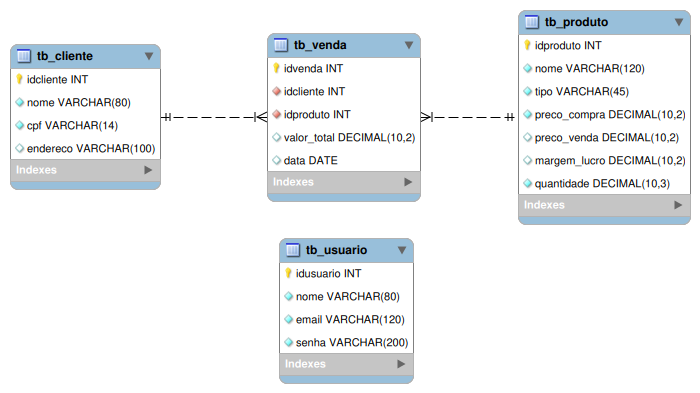
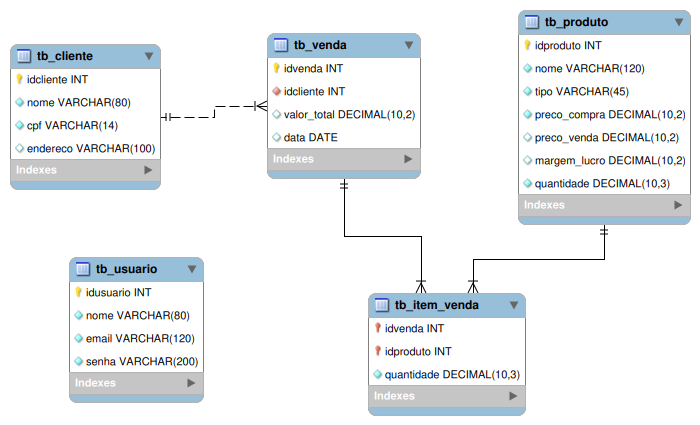
Implementação de N:N
Função que salva venda, item, seus testes e um teste do processo completo.

diff --git a/codigo/funcoes.php b/codigo/funcoes.php
@@ -72,17 +72,34 @@ function editarProduto() {};
 //desafio
 function salvarUsuario() {};
 
-function salvarVenda($conexao, $idcliente, $idproduto, $valor_total, $data) {
-    $sql = "INSERT INTO tb_venda (idcliente, idproduto, valor_total, data) VALUES (?, ?, ?, ?)";
+function salvarVenda($conexao, $idcliente, $valor_total, $data) {
+    $sql = "INSERT INTO tb_venda (idcliente, valor_total, data) VALUES (?, ?, ?)";
     $comando = mysqli_prepare($conexao, $sql);
 
-    mysqli_stmt_bind_param($comando, 'iids', $idcliente, $idproduto, $valor_total, $data);
+    mysqli_stmt_bind_param($comando, 'ids', $idcliente, $valor_total, $data);
+
+    $funcionou = mysqli_stmt_execute($comando);
+
+    // retorna o valor do id que acabou de ser inserido
+    $idvenda = mysqli_stmt_insert_id($comando);
+    
+    mysqli_stmt_close($comando);
+    
+    return $idvenda;
+};
+
+function salvarItemVenda($conexao, $id_venda, $id_produto, $quantidade) {
+    $sql = "INSERT INTO tb_item_venda (idvenda, idproduto, quantidade) VALUES (?, ?, ?)";
+
+    $comando = mysqli_prepare($conexao, $sql);
+
+    mysqli_stmt_bind_param($comando, 'iid', $id_venda, $id_produto, $quantidade);
 
     $funcionou = mysqli_stmt_execute($comando);
     mysqli_stmt_close($comando);
-    
+
     return $funcionou;
-};
+}
 
 // retornar uma variável com todos os dados do cliente
 function pesquisarClienteId($conexao, $idcliente) {

diff --git a/codigo/tests/teste_processoVenda.php b/codigo/tests/teste_processoVenda.php
@@ -1,0 +1,30 @@
+<?php
+require_once "../conexao.php";
+require_once "../funcoes.php";
+
+$id_cliente = 2;
+$valor_total = 30.2;
+$data = "2025-12-30";
+
+// $produtos = [2, 3, 5, 8, 10];
+// $quantide = [3, 5, 1, 9, 20];
+
+// lembrar do carrinho de compras
+$produtos = [
+//  produto, quantidade
+    [1, 3], 
+    [3, 5], 
+    [2, 1],
+];
+
+
+$id_venda = salvarVenda($conexao, $id_cliente, $valor_total, $data);
+
+// for ($i = 0; $i < sizeof($produtos); $i++) {
+//     salvarItemVenda($conexao, $id_venda, $produto[$i], $quantide[$i]);
+// }
+
+// quebra a variável $produto em $p (cada uma das 3 partes)
+foreach ($produtos as $p) {
+    salvarItemVenda($conexao, $id_venda, $p[0], $p[1]);
+}

diff --git a/codigo/tests/teste_salvarVenda.php b/codigo/tests/teste_salvarVenda.php
@@ -2,10 +2,11 @@
 require_once "../conexao.php";
 require_once "../funcoes.php";
 
-$idcliente = 3;
-$idproduto = 1;
+$idcliente = 1;
 $valor_total = 25.50;
 $data = "2025-03-27";
 
-salvarVenda($conexao, $idcliente, $idproduto, $valor_total, $data);
+$idvenda = salvarVenda($conexao, $idcliente, $valor_total, $data);
+
+echo $idvenda;
 ?>

diff --git a/codigo/tests/teste_salvarItemVenda.php b/codigo/tests/teste_salvarItemVenda.php
@@ -1,0 +1,10 @@
+<?php
+require_once "../conexao.php";
+require_once "../funcoes.php";
+
+$idvenda = 2;
+$idproduto = 1;
+$quantidade = 10;
+
+salvarItemVenda($conexao, $idvenda, $idproduto, $quantidade);
+?>
